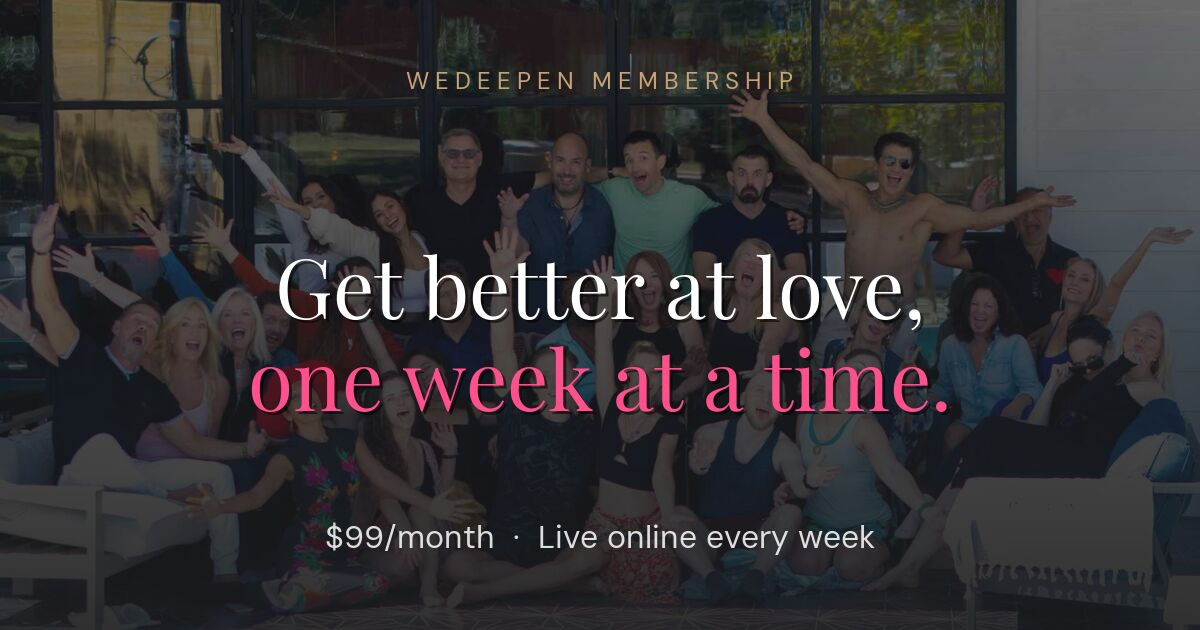
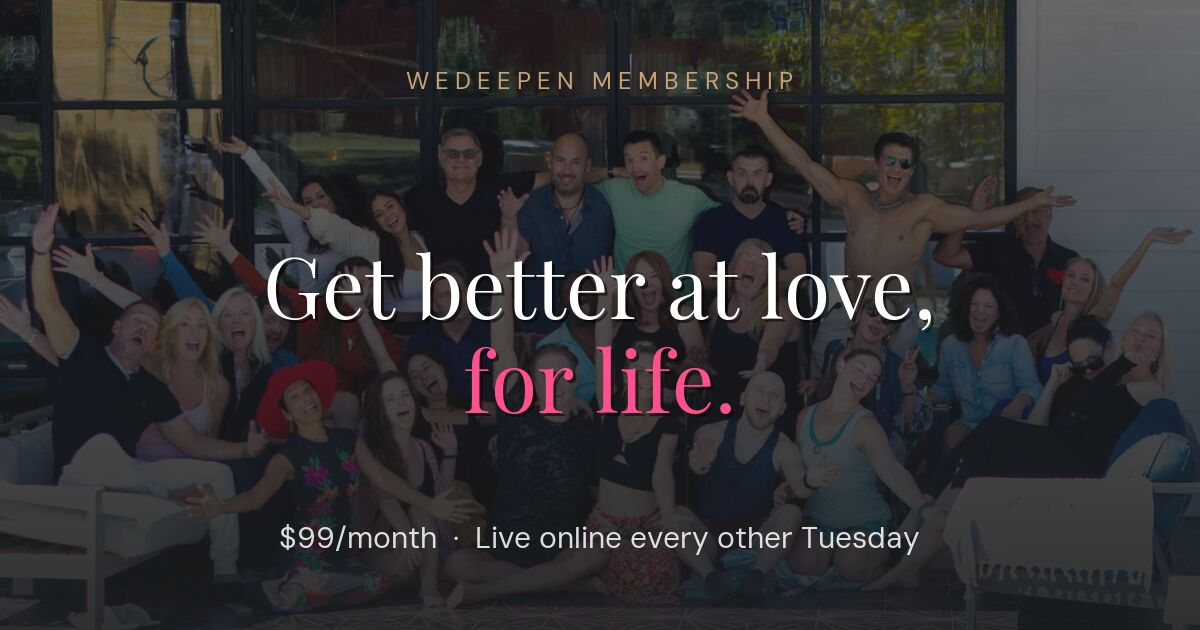
membership: for-life headline, bi-weekly Tuesdays, Wednesdays removed (#466)
Headline is now "Get better at love, for life." matching the homepage
hero, in the H1, the page title, and the OG and Twitter titles.

Wednesday sessions are gone. Sessions run every other Tuesday for 90
minutes, so every "weekly" claim that is no longer true was rewritten:

- The sessions column is now "Bi-weekly live sessions", described as
  Love Masterminds taught by leading experts in love, intimacy,
  conflict resolution, personality types, and more
- The rhythm section drops the two-column Tue/Wed split for a single
  "Every other Tuesday. 90 minutes." statement
- The FAQ schedule answer, the price card, the ladder card, the
  Christina section, and the meta descriptions all say bi-weekly
- Sunday Dares stay weekly, because they are

OG image regenerated with the new headline and cadence.

Changed region(s): [[0.185, 0.5429, 0.8017, 0.6635], [0.2158, 0.3921, 0.8017, 0.5127], [0.2158, 0.8143, 0.7708, 0.8746]]

diff --git a/membership/index.html b/membership/index.html
@@ -3,8 +3,8 @@
 <head>
   <meta charset="UTF-8">
   <meta name="viewport" content="width=device-width, initial-scale=1.0">
-  <title>WeDeepen Membership | Get better at love, one week at a time</title>
-  <meta name="description" content="A $99/month membership for people who want to get better at love. Weekly live sessions, a private community, expert guides, and a Sunday Dare every week.">
+  <title>WeDeepen Membership | Get better at love, for life</title>
+  <meta name="description" content="A $99/month membership for people who want to get better at love. Bi-weekly live sessions, a private community, expert guides, and a Sunday Dare every week.">
 
   <!-- PRE-LAUNCH: remove this noindex and add the page to site nav on launch day -->
   <meta name="robots" content="noindex, nofollow">
@@ -12,8 +12,8 @@
 
   <meta property="og:type" content="website">
   <meta property="og:url" content="https://wedeepen.com/membership/">
-  <meta property="og:title" content="WeDeepen Membership | Get better at love, one week at a time">
-  <meta property="og:description" content="Weekly live sessions, a private community, expert guides, and a Sunday Dare every week. $99/month.">
+  <meta property="og:title" content="WeDeepen Membership | Get better at love, for life">
+  <meta property="og:description" content="Bi-weekly live sessions, a private community, expert guides, and a Sunday Dare every week. $99/month.">
   <meta property="og:image" content="https://wedeepen.com/images/og/og-membership.jpg">
   <meta property="og:image:width" content="1200">
   <meta property="og:image:height" content="630">
@@ -21,8 +21,8 @@
   <meta property="og:site_name" content="WeDeepen">
 
   <meta name="twitter:card" content="summary_large_image">
-  <meta name="twitter:title" content="WeDeepen Membership | Get better at love, one week at a time">
-  <meta name="twitter:description" content="Weekly live sessions, a private community, expert guides, and a Sunday Dare every week. $99/month.">
+  <meta name="twitter:title" content="WeDeepen Membership | Get better at love, for life">
+  <meta name="twitter:description" content="Bi-weekly live sessions, a private community, expert guides, and a Sunday Dare every week. $99/month.">
   <meta name="twitter:image" content="https://wedeepen.com/images/og/og-membership.jpg">
 
   <!-- Fonts -->
@@ -213,11 +213,11 @@
     <div class="max-w-site mx-auto text-center">
       <p class="eyebrow mb-8">WeDeepen Membership</p>
       <h1 class="display text-white mb-9" style="font-size: clamp(2.35rem, 6.6vw, 5.6rem);">
-        Get better at love, <br class="hidden sm:inline">one week at a time.
+        Get better at love, <br class="hidden sm:inline">for life.
       </h1>
       <p class="lede text-white/60 max-w-2xl mx-auto mb-11">
         An expert-led community for how you date, communicate, handle conflict,
-        build intimacy, and connect. Live online every week, from anywhere.
+        build intimacy, and connect. Live online every other Tuesday, from anywhere.
       </p>
       <div class="flex flex-col sm:flex-row items-center justify-center gap-5">
         <a href="#join" class="btn-primary w-full sm:w-auto text-center">Become a Member &middot; $99/month</a>
@@ -311,11 +311,11 @@
 
         <div class="bg-ink md:pr-9 py-12 md:py-4">
           <p class="eyebrow mb-6">01</p>
-          <h3 class="display text-[1.7rem] md:text-3xl text-white mb-5">Weekly live sessions</h3>
-          <p class="text-gold/80 text-[0.95rem] leading-relaxed mb-7">A rotating mix of ways to learn, practice, and integrate.</p>
+          <h3 class="display text-[1.7rem] md:text-3xl text-white mb-5">Bi-weekly live sessions</h3>
+          <p class="text-gold/80 text-[0.95rem] leading-relaxed mb-7">Love Masterminds taught by leading experts in love, intimacy, conflict resolution, personality types, and more.</p>
           <ul class="border-t border-white/10">
             <li class="py-4 border-b border-white/10 text-white/70 leading-relaxed">Love Masterminds built around real relationship questions and situations.</li>
-            <li class="py-4 border-b border-white/10 text-white/70 leading-relaxed">Workshops with expert coaches across dating, intimacy, communication, and relationships.</li>
+            <li class="py-4 border-b border-white/10 text-white/70 leading-relaxed">A different expert leading each session, across dating, intimacy, communication, and relationships.</li>
             <li class="py-4 border-b border-white/10 text-white/70 leading-relaxed">Bonding exercises with other members.</li>
             <li class="py-4 border-b border-white/10 text-white/70 leading-relaxed">Integration sessions to unpack what you&rsquo;re learning.</li>
           </ul>
@@ -350,24 +350,18 @@
   </section>
 
 
-  <!-- ============ THE WEEKLY RHYTHM ============ -->
+  <!-- ============ THE RHYTHM ============ -->
   <section class="bg-ink px-6 lg:px-10 pb-28 md:pb-40">
     <div class="max-w-site mx-auto reveal">
       <div class="h-px hair-dark mb-16"></div>
       <div class="grid md:grid-cols-12 gap-10 md:gap-12 items-baseline mb-14 md:mb-16">
-        <div class="md:col-span-4">
-          <p class="eyebrow mb-6">The weekly rhythm</p>
-          <h2 class="display text-white text-3xl md:text-4xl">Two nights a week.</h2>
+        <div class="md:col-span-5">
+          <p class="eyebrow mb-6">The rhythm</p>
+          <h2 class="display text-white text-3xl md:text-4xl">Every other Tuesday.</h2>
         </div>
-        <div class="md:col-span-8 grid sm:grid-cols-2 gap-8 sm:gap-12">
-          <div>
-            <p class="display text-4xl md:text-5xl text-white mb-3">Tuesdays</p>
-            <p class="text-white/60 leading-relaxed">Alternating weeks, 90 minutes.</p>
-          </div>
-          <div>
-            <p class="display text-4xl md:text-5xl text-white mb-3">Wednesdays</p>
-            <p class="text-white/60 leading-relaxed">Alternating weeks, 60 minutes.</p>
-          </div>
+        <div class="md:col-span-7">
+          <p class="display text-4xl md:text-5xl text-white mb-3">90 minutes</p>
+          <p class="text-white/60 leading-relaxed">Live online, twice a month.</p>
         </div>
       </div>
 
@@ -557,7 +551,7 @@
           <p class="lede text-charcoal/70 mb-6">
             Christina built WeDeepen because the relationship world is full of brilliant teachers
             working in isolation, and full of people trying to figure love out alone. The membership
-            is where those two things meet every week.
+            is where those two things meet, twice a month.
           </p>
           <p class="lede text-charcoal/70 mb-10">
             She hosts, she teaches, and she is in the room. Her work has been featured on Peacock,
@@ -639,7 +633,7 @@
       <div class="h-px hair-dark mb-12"></div>
 
       <ul class="text-left space-y-5 text-white/70 leading-relaxed mb-14 max-w-md mx-auto">
-        <li class="flex gap-5"><span class="text-gold shrink-0 text-sm pt-1">01</span><span>Weekly live masterminds, bonding, and integration</span></li>
+        <li class="flex gap-5"><span class="text-gold shrink-0 text-sm pt-1">01</span><span>Bi-weekly live Masterminds, bonding, and integration</span></li>
         <li class="flex gap-5"><span class="text-gold shrink-0 text-sm pt-1">02</span><span>Expert-led sessions on relationships and intimacy</span></li>
         <li class="flex gap-5"><span class="text-gold shrink-0 text-sm pt-1">03</span><span>Private Circle discussions and Ask the Experts</span></li>
         <li class="flex gap-5"><span class="text-gold shrink-0 text-sm pt-1">04</span><span>Sunday Dares by text and email, members only</span></li>
@@ -675,7 +669,7 @@
         <div class="bg-cream md:pr-10 py-10 md:py-3">
           <p class="eyebrow mb-5" style="color:#A01B4A;">Start here</p>
           <h3 class="display text-2xl md:text-[1.75rem] mb-4">WeDeepen Membership</h3>
-          <p class="text-charcoal/65 leading-relaxed mb-6">Weekly, virtual, and open. Build the skill of love alongside a community doing the same.</p>
+          <p class="text-charcoal/65 leading-relaxed mb-6">Bi-weekly, virtual, and open. Build the skill of love alongside a community doing the same.</p>
           <a href="#join" class="link-underline text-sm" style="color:#A01B4A; border-color: rgba(160,27,74,0.4);">Join now &rarr;</a>
         </div>
         <div class="bg-cream md:px-10 py-10 md:py-3">
@@ -720,7 +714,7 @@
           </button>
           <div class="faq-answer"><div class="pb-8 pr-10 text-white/60 leading-relaxed">
             <p>Sessions run online at <strong class="text-white">7:00 PM Eastern, 6:00 PM Central, 5:00 PM Mountain, and 4:00 PM Pacific</strong>.</p>
-            <p class="mt-4">On alternating Tuesdays, sessions run 90 minutes. On alternating Wednesdays, they run 60 minutes at the same time.</p>
+            <p class="mt-4">Sessions run <strong class="text-white">every other Tuesday for 90 minutes</strong>, twice a month.</p>
             <p class="mt-4">Your membership calendar shows what is coming up, and every session is recorded from the time you join forward.</p>
           </div></div>
         </div>
@@ -782,7 +776,7 @@
             <span class="faq-plus text-gold text-xl leading-none shrink-0 mt-1">+</span>
           </button>
           <div class="faq-answer"><p class="pb-8 pr-10 text-white/60 leading-relaxed">
-            The membership is the weekly, virtual foundation and the place most people start. <a href="/love-immersion/october-2026/" class="link-underline">Love Immersion</a> is a three-day in-person retreat. <a href="/love-club/" class="link-underline">Love Club</a> is our highest tier, with a full year of virtual and in-person programming. You can move between tiers at any time.
+            The membership is the bi-weekly, virtual foundation and the place most people start. <a href="/love-immersion/october-2026/" class="link-underline">Love Immersion</a> is a three-day in-person retreat. <a href="/love-club/" class="link-underline">Love Club</a> is our highest tier, with a full year of virtual and in-person programming. You can move between tiers at any time.
           </p></div>
         </div>
       </div>
